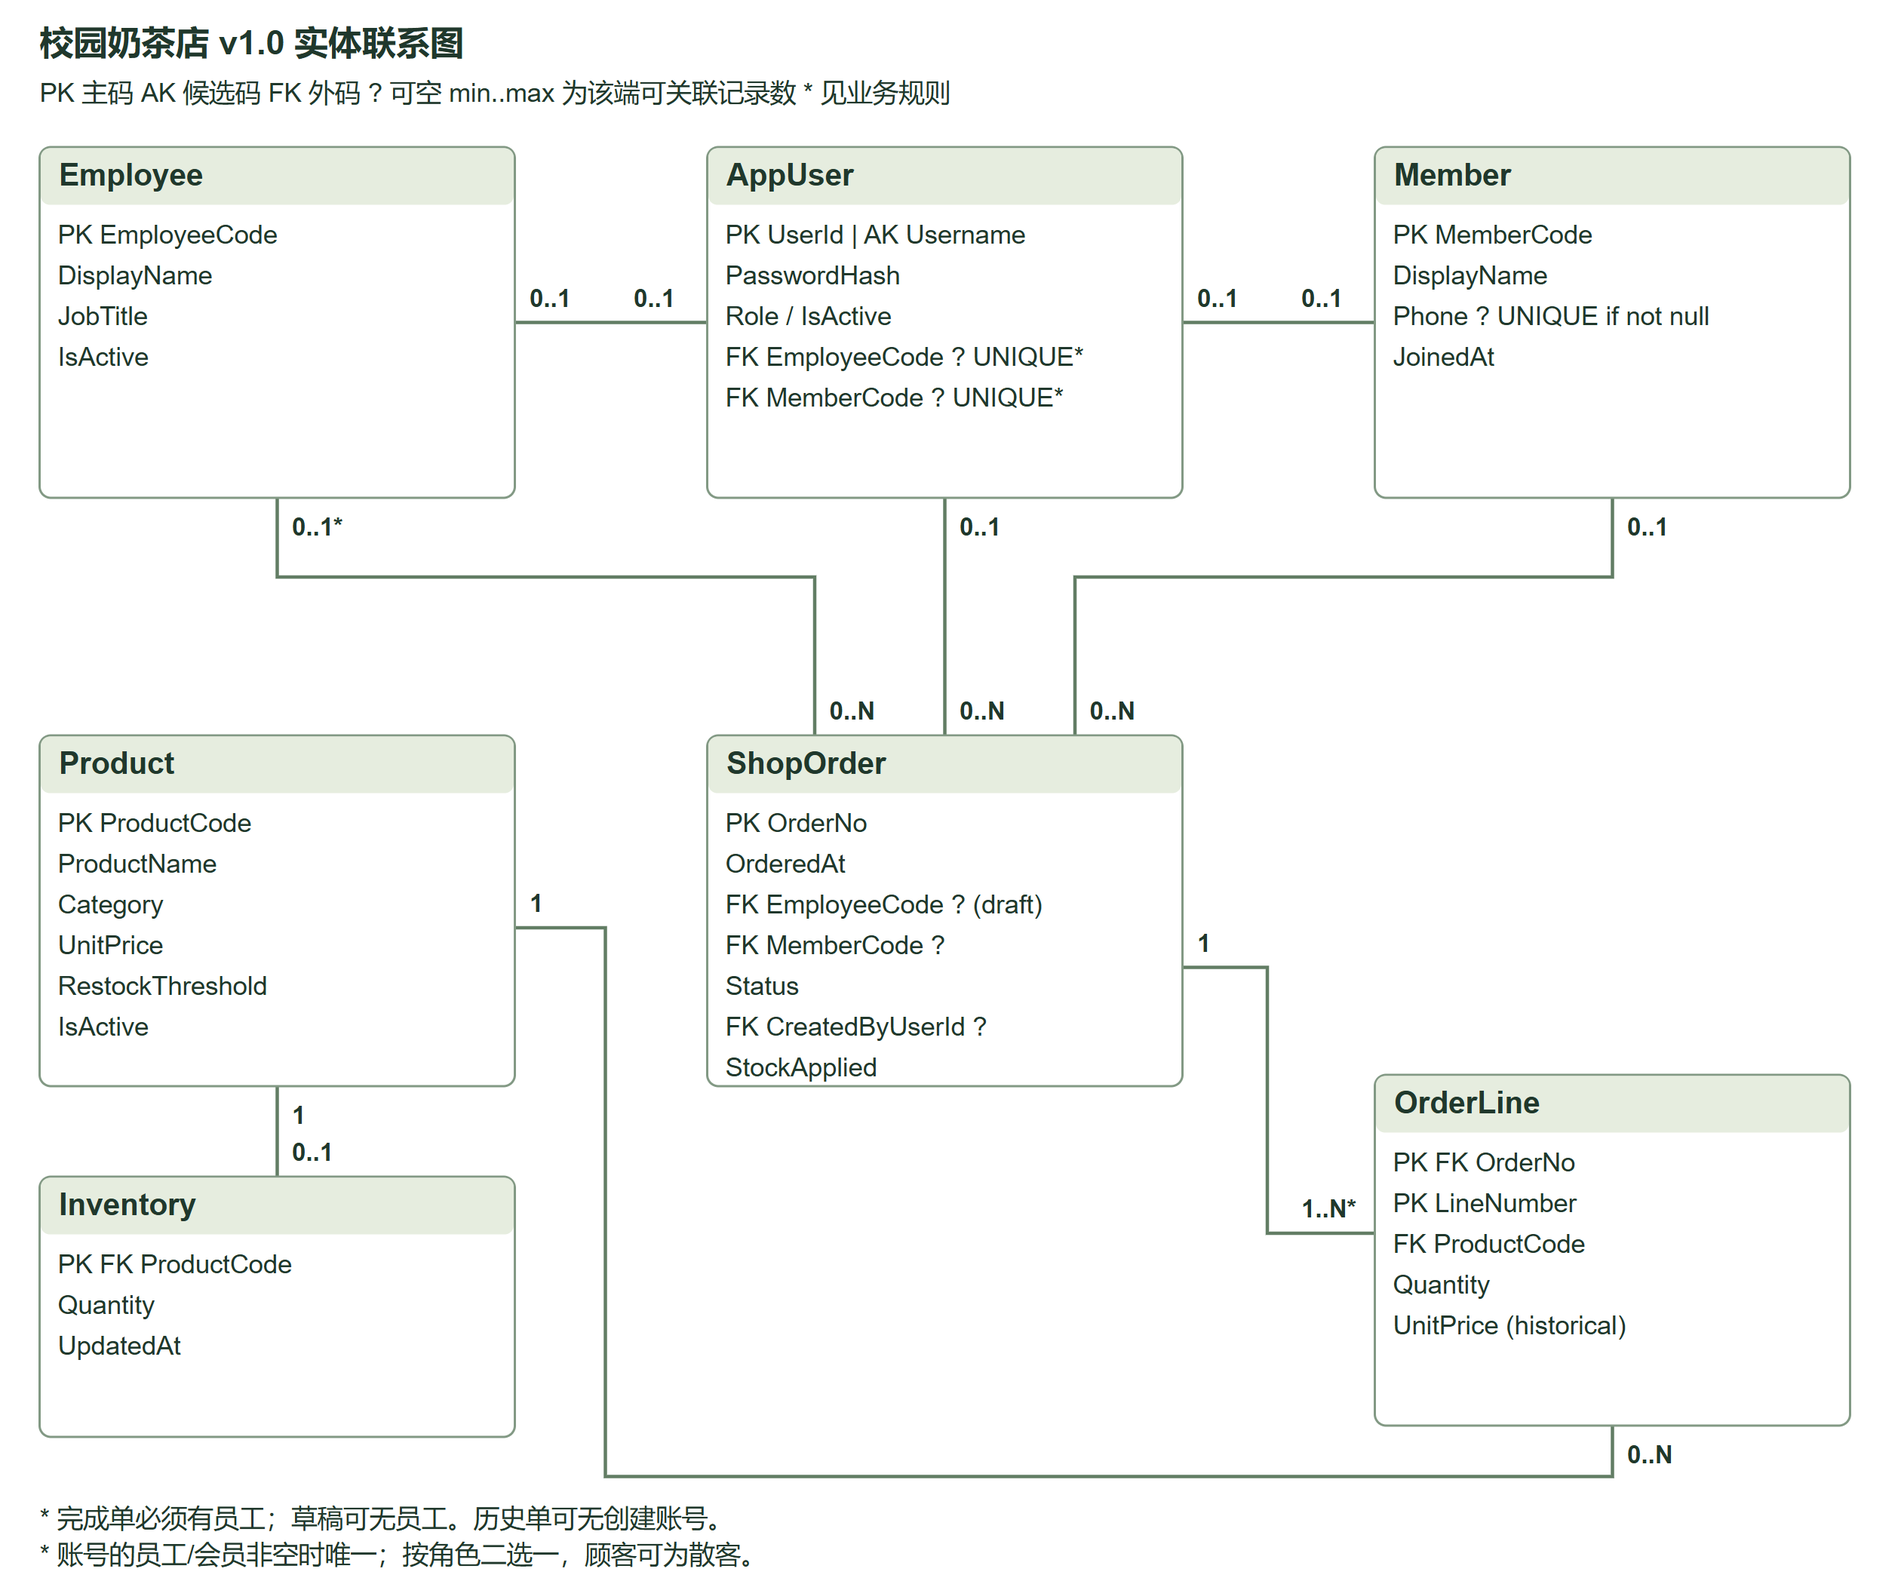
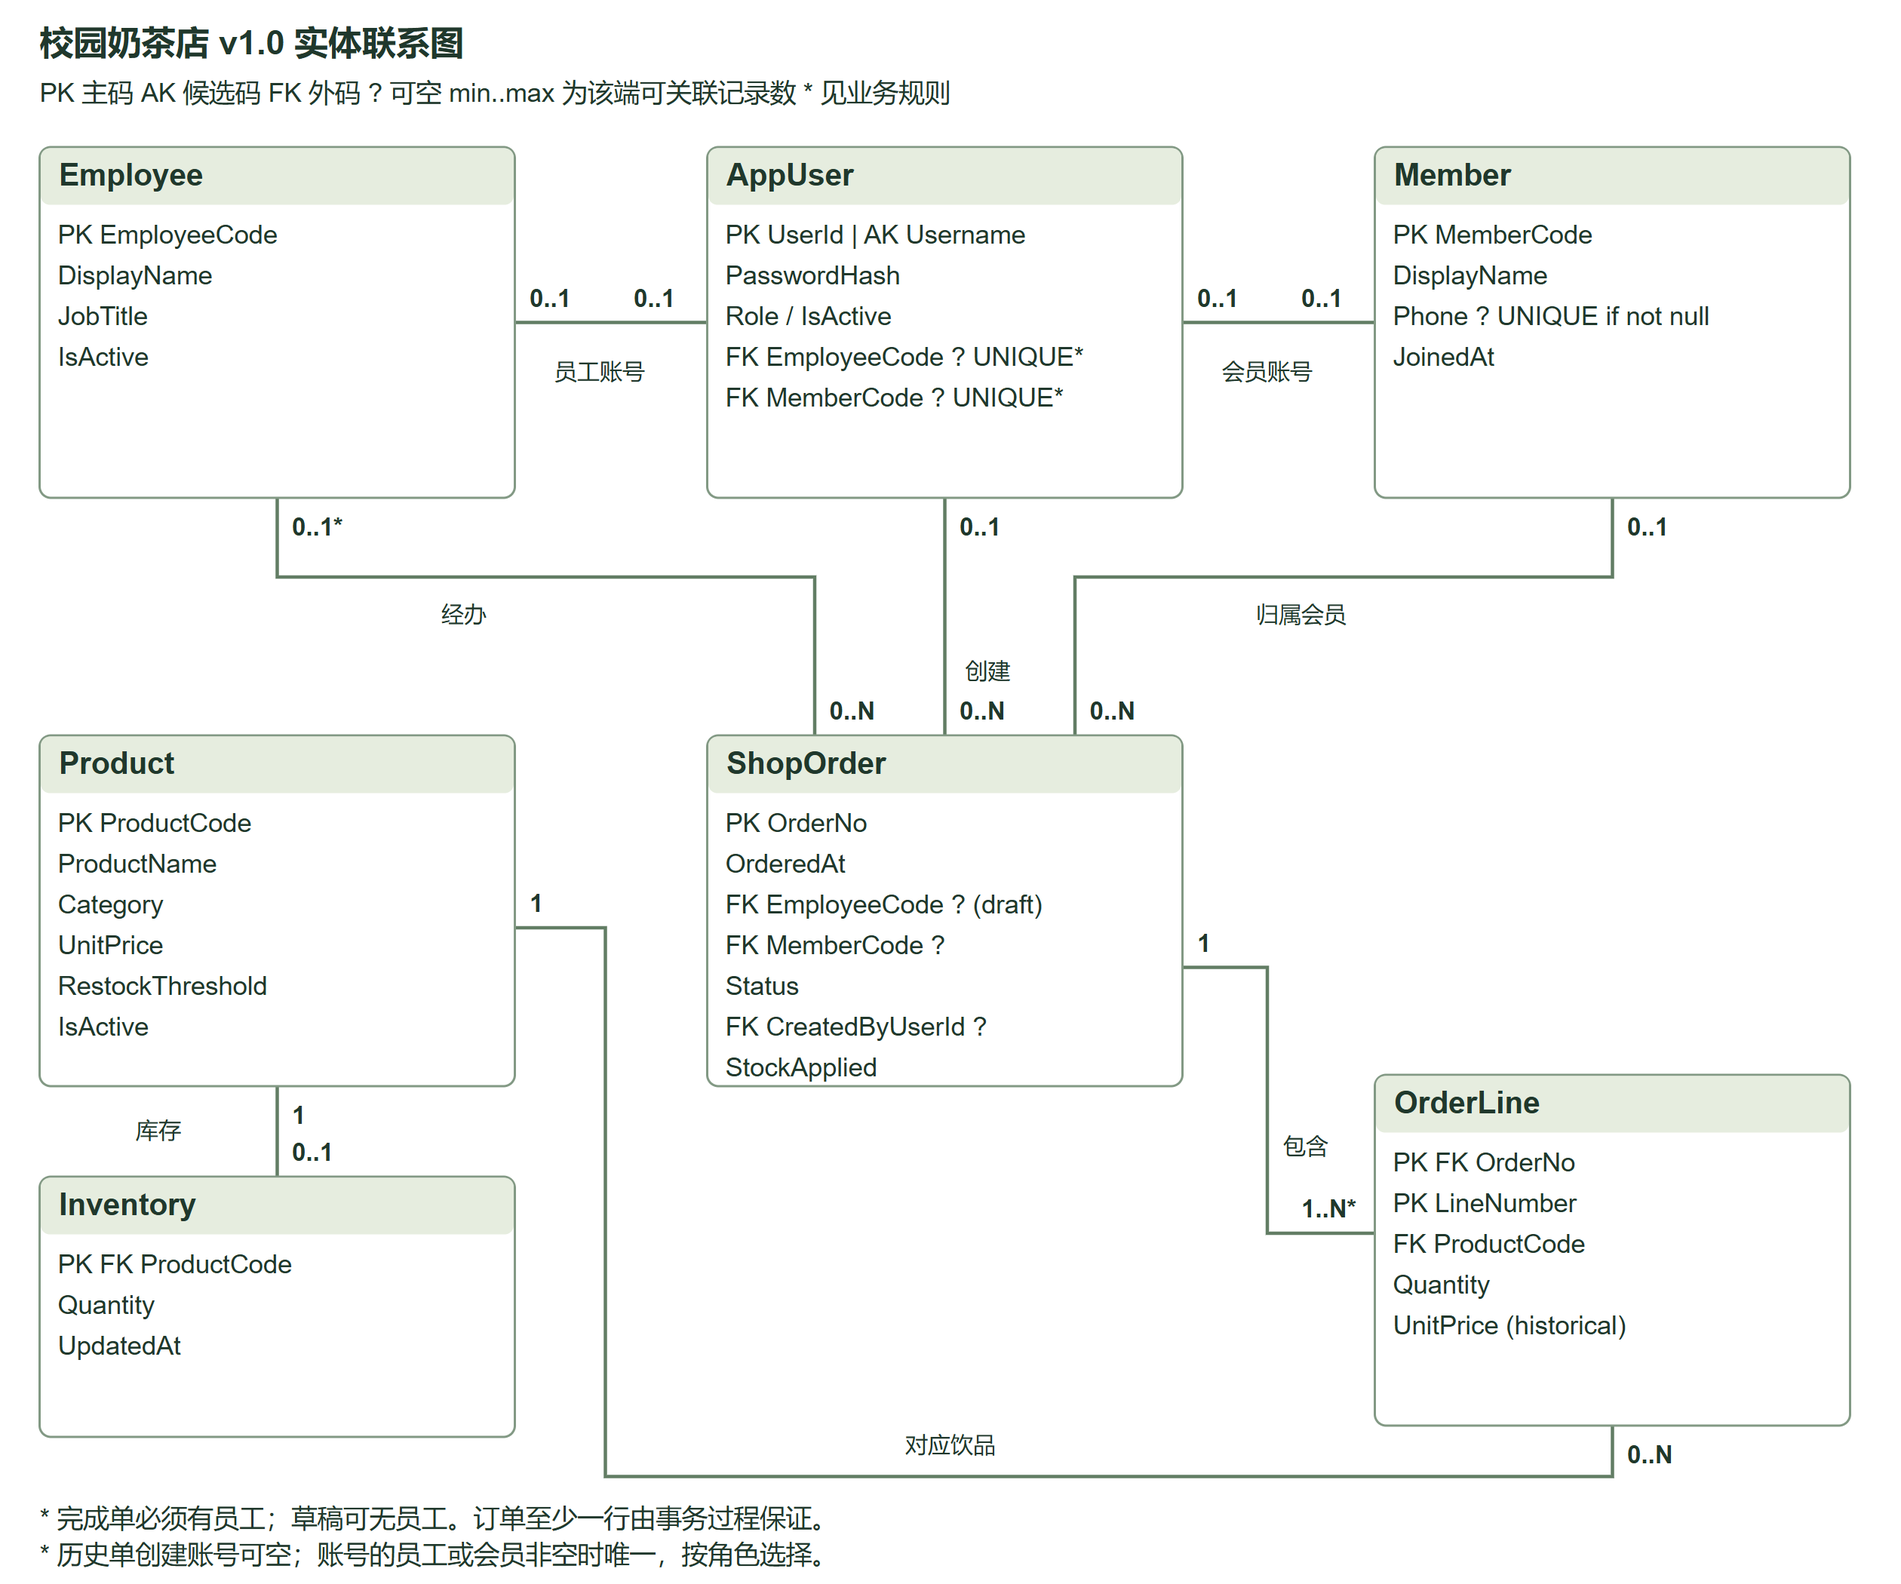
Fix five independently reproduced course audit regressions and clarify ER relationships

diff --git a/stage2/web/static/app.js b/stage2/web/static/app.js
@@ -9,7 +9,7 @@ function button(text,fn,cls='quiet'){const b=el('button',text,cls);b.type='butto
 function table(headers,rows){const t=el('table'),head=el('tr');headers.forEach(x=>head.append(el('th',x)));const th=el('thead');th.append(head);t.append(th);const body=el('tbody');rows.forEach(row=>{const tr=el('tr');row.forEach(x=>{const td=el('td');td.append(x instanceof Node?x:document.createTextNode(String(x??'—')));tr.append(td);});body.append(tr);});if(!rows.length){const tr=el('tr'),td=el('td','暂无记录');td.colSpan=headers.length;tr.append(td);body.append(tr);}t.append(body);return t;}
 const money=v=>Number(v).toFixed(2);
 const status=s=>({DRAFT:'待确认',COMPLETED:'已完成',CANCELLED:'已取消'}[s]||s);
-async function refreshProducts(q=''){products=await api('/products?q='+encodeURIComponent(q));const grid=$('#product-grid');grid.replaceChildren();products.forEach(p=>{const c=el('article',undefined,'product-card');c.append(el('div',p.Category+' · '+p.ProductCode,'category'),el('h3',p.ProductName));if(!p.IsActive)c.append(el('span','已下架','badge low'));c.append(el('div','¥ '+money(p.UnitPrice),'price'));const actions=el('div',undefined,'actions');if(p.IsActive)actions.append(button('选这杯',async()=>{await switchTab('orders');addLine(p.ProductCode);$('#order-form').scrollIntoView({behavior:'smooth'});}));if(user.Role==='admin'){actions.append(button('编辑',()=>editProduct(p)),button('删除',async()=>{if(confirm('删除商品 '+p.ProductName+'？已被订单引用的商品将保留。')){await api('/products/'+p.ProductCode,'DELETE');await refreshProducts();notice('商品已删除');}},'danger'));}c.append(actions);grid.append(c);});}
+async function refreshProducts(q=''){const visible=await api('/products?q='+encodeURIComponent(q));if(!q)products=visible;const grid=$('#product-grid');grid.replaceChildren();visible.forEach(p=>{const c=el('article',undefined,'product-card');c.append(el('div',p.Category+' · '+p.ProductCode,'category'),el('h3',p.ProductName));if(!p.IsActive)c.append(el('span','已下架','badge low'));c.append(el('div','¥ '+money(p.UnitPrice),'price'));const actions=el('div',undefined,'actions');if(p.IsActive)actions.append(button('选这杯',async()=>{await switchTab('orders');addLine(p.ProductCode);$('#order-form').scrollIntoView({behavior:'smooth'});}));if(user.Role==='admin'){actions.append(button('编辑',()=>editProduct(p)),button('删除',async()=>{if(confirm('删除商品 '+p.ProductName+'？已被订单引用的商品将保留。')){await api('/products/'+p.ProductCode,'DELETE');await refreshProducts();notice('商品已删除');}},'danger'));}c.append(actions);grid.append(c);});}
 function resetProduct(){editingProduct=null;$('#product-form').reset();$('#product-form [name=product_code]').disabled=false;$('#product-form-title').textContent='新增商品';}
 function editProduct(p){editingProduct=p.ProductCode;const f=$('#product-form');for(const [key,value] of Object.entries({product_code:p.ProductCode,name:p.ProductName,category:p.Category,price:p.UnitPrice,threshold:p.RestockThreshold,active:String(p.IsActive)}))f.elements[key].value=value;f.elements.product_code.disabled=true;$('#product-form-title').textContent='修改商品 '+p.ProductCode;f.scrollIntoView({behavior:'smooth'});}
 function addLine(code='',quantity=1){const row=el('div',undefined,'line-row');const label=el('label','饮品'),select=el('select');select.name='product_code';select.required=true;products.filter(p=>p.IsActive||p.ProductCode===code).forEach(p=>{const op=el('option',p.ProductName+' · ¥'+money(p.UnitPrice));op.value=p.ProductCode;select.append(op);});if(code)select.value=code;label.append(select);const qlabel=el('label','杯数'),input=el('input');Object.assign(input,{name:'quantity',type:'number',min:'1',max:'100',step:'1',required:true,value:String(quantity)});qlabel.append(input);row.append(label,qlabel,button('移除',()=>row.remove()));$('#line-editor').append(row);}

diff --git a/stage2/tests/test_course_audit.py b/stage2/tests/test_course_audit.py
@@ -1,0 +1,86 @@
+"""Independent course audit: cross-feature and numeric/stock boundary regressions."""
+import json
+from decimal import Decimal
+from threading import Thread
+
+import pyodbc
+from playwright.sync_api import expect, sync_playwright
+from werkzeug.serving import make_server
+
+from stage2.web.app import ROOT
+
+
+def create_draft(client,headers,items):
+    response=client.post('/api/orders',json={'items':items},headers=headers)
+    assert response.status_code==200,response.json
+    return response.json['data']['order_no']
+
+
+def test_large_valid_order_total_remains_readable(client,login,db):
+    headers=login(client,'clerk')
+    db.execute("UPDATE dbo.Product SET UnitPrice=99999999.99 WHERE ProductCode='D001'")
+    number=create_draft(client,headers,[{'product_code':'D001','quantity':100}]*2)
+    response=client.get('/api/orders/'+number)
+    assert response.status_code==200,response.json
+    assert Decimal(response.json['data']['order']['Total'])==Decimal('19999999998.00')
+    assert client.get('/api/orders').status_code==200
+
+
+def test_cancel_restores_stock_after_zero_inventory_record_deleted(client,login,db):
+    db.execute("INSERT dbo.Product VALUES('AUDIT',N'复核用茶',N'测试',1,1,1); INSERT dbo.Inventory(ProductCode,Quantity) VALUES('AUDIT',2);")
+    headers=login(client,'clerk')
+    number=create_draft(client,headers,[{'product_code':'AUDIT','quantity':2}])
+    assert client.post('/api/orders/'+number+'/submit',json={},headers=headers).status_code==200
+    admin_headers=login(client,'admin')
+    assert client.delete('/api/inventory/AUDIT',headers=admin_headers).status_code==200
+    headers=login(client,'clerk')
+    response=client.post('/api/orders/'+number+'/cancel',json={},headers=headers)
+    assert response.status_code==200,response.json
+    assert db.execute("SELECT Quantity FROM dbo.Inventory WHERE ProductCode='AUDIT'").fetchval()==2
+    assert client.post('/api/orders/'+number+'/cancel',json={},headers=headers).status_code==409
+
+
+def test_non_ascii_csrf_is_rejected_as_input_not_system_error(client):
+    client.get('/api/session')
+    response=client.post('/api/login',json={'username':'admin','password':'invalid'},headers={'X-CSRF-Token':'é'})
+    assert response.status_code==403 and response.json['code']=='CSRF_INVALID'
+
+
+def test_connection_failure_log_preserves_last_authenticated_role(app,client,login,monkeypatch):
+    login(client,'admin')
+    def unavailable(*args):
+        raise pyodbc.OperationalError('08001','audit connection unavailable')
+    monkeypatch.setattr(app.extensions['dao'],'user',unavailable)
+    response=client.get('/api/orders')
+    assert response.status_code==503
+    records=[json.loads(line) for line in (ROOT/'logs/app.jsonl').read_text(encoding='utf-8').splitlines()]
+    matches=[r for r in records if r.get('request_id')==response.json['request_id']]
+    assert matches and all(r['role']=='admin' for r in matches)
+
+
+def test_menu_search_does_not_remove_other_products_from_draft_editor(app,client,login,credentials):
+    headers=login(client,'customer')
+    number=create_draft(client,headers,[{'product_code':'D003','quantity':2}])
+    server=make_server('127.0.0.1',5002,app,threaded=True)
+    Thread(target=server.serve_forever,daemon=True).start()
+    try:
+        with sync_playwright() as p:
+            browser=p.chromium.launch(channel='msedge',headless=True)
+            page=browser.new_page(viewport={'width':1440,'height':1000})
+            page.goto('http://127.0.0.1:5002')
+            page.locator('[name=username]').fill('customer')
+            page.locator('[name=password]').fill(credentials['customer'])
+            page.locator('#login-form button').click()
+            expect(page.locator('.product-card')).to_have_count(6)
+            page.locator('#search-form input').fill('D001')
+            page.locator('#search-form button').click()
+            expect(page.locator('.product-card')).to_have_count(1)
+            page.locator('[data-tab=orders]').click()
+            page.locator('#orders-table tr').filter(has_text=number).get_by_role('button',name='编辑',exact=True).click()
+            expect(page.locator('.line-row select')).to_have_value('D003')
+            page.locator('.line-row input').fill('3')
+            page.locator('#order-form button[type=submit]').click()
+            expect(page.locator('#order-detail')).to_contain_text('12.00')
+            browser.close()
+    finally:
+        server.shutdown()

diff --git a/stage2/tools/draw_er.py b/stage2/tools/draw_er.py
@@ -41,6 +41,14 @@ def draw(version):
         '<style>text{font-family:Arial,"Microsoft YaHei",sans-serif;fill:#20382c;font-size:23px}.title{font-size:30px;font-weight:bold}.heading{font-size:27px;font-weight:bold}.card{fill:#fff;stroke:#829984;stroke-width:2}.label{font-size:22px;font-weight:bold;paint-order:stroke;stroke:white;stroke-width:8px;stroke-linejoin:round}</style>',
         '<rect width="1680" height="1400" fill="white"/>',f'<text x="35" y="48" class="title">校园奶茶店 {version.replace("v01","v0.1").replace("v10","v1.0")} 实体联系图</text>',
         '<text x="35" y="90">PK 主码   AK 候选码   FK 外码   ? 可空   min..max 为该端可关联记录数   * 见业务规则</text>']
+    names={
+      ('Employee','AppUser'):('员工账号',490,335),('Member','AppUser'):('会员账号',1080,335),
+      ('AppUser','ShopOrder'):('创建',853,600),
+      ('Employee','ShopOrder'):('经办',485,355) if version=='v01' else ('经办',390,550),
+      ('Member','ShopOrder'):('归属会员',1080,355) if version=='v01' else ('归属会员',1110,550),
+      ('ShopOrder','OrderLine'):('包含',858,675) if version=='v01' else ('包含',1134,1020),
+      ('Product','OrderLine'):('对应饮品',480,1015) if version=='v01' else ('对应饮品',800,1284),
+      ('Product','Inventory'):('库存快照',760,1260) if version=='v01' else ('库存',120,1006)}
     for a,b,mina,minb,points,label in links:
         out.append('<polyline points="'+' '.join(f'{x},{y}' for x,y in points)+'" fill="none" stroke="#627d64" stroke-width="3"/>')
         # Label cardinalities at each actual endpoint; optional participation via zero.
@@ -48,13 +56,15 @@ def draw(version):
             x,y=point;dx,dy=adjacent[0]-x,adjacent[1]-y
             tx=x+(13 if dx>=0 else -65);ty=y+(33 if dy>0 else -14)
             out.append(f'<text x="{tx}" y="{ty}" class="label">{txt}</text>')
+        name,nx,ny=names[(a,b)]
+        out.append(f'<text x="{nx}" y="{ny}" style="font-size:20px">{name}</text>')
     for name,(x,y) in nodes.items():
         ff=fields[name];height=230 if version=='v10' and name=='Inventory' else 310
         out+=[f'<g id="{name}"><rect x="{x}" y="{y}" width="420" height="{height}" rx="10" class="card"/>',f'<rect x="{x+1}" y="{y+1}" width="418" height="50" rx="8" fill="#e6eddf"/>',f'<text x="{x+17}" y="{y+34}" class="heading">{name}</text>']
         for i,f in enumerate(ff):out.append(f'<text x="{x+16}" y="{y+85+i*36}">{escape(f)}</text>')
         out.append('</g>')
-    notes=['* Order 至少一条明细由事务过程保证，外码本身仅保证引用存在。']
-    if version=='v10':notes=['* 完成单必须有员工；草稿可无员工。历史单可无创建账号。','* 账号的员工/会员非空时唯一；按角色二选一，顾客可为散客。']
+    notes=['* 订单至少一行是业务要求；v0.1外码不能保证，v1.0由事务过程实现。']
+    if version=='v10':notes=['* 完成单必须有员工；草稿可无员工。订单至少一行由事务过程保证。','* 历史单创建账号可空；账号的员工或会员非空时唯一，按角色选择。']
     for i,n in enumerate(notes):out.append(f'<text x="35" y="{1350+i*32}">{n}</text>')
     out.append('</svg>')
     path=ROOT/'docs'/('er-'+version+'.svg');path.write_text('\n'.join(out),encoding='utf-8');return path

diff --git a/stage2/web/app.py b/stage2/web/app.py
@@ -53,12 +53,17 @@ def create_app(config=None):
     @app.before_request
     def before():
         g.request_id, g.started, g.user, g.code = uuid4().hex, time.monotonic(), None, 'OK'
+        # Keep the last authenticated role for diagnostics if revalidation cannot connect.
+        # Authorization always uses g.user freshly loaded from SQL Server, never this hint.
+        g.log_role = session.get('role', 'anonymous')
         if request.path.startswith('/api/'):
             if session.get('username'):
                 g.user = dao.user(session['username'])
+                if g.user:
+                    g.log_role = g.user['Role']
             if request.method not in {'GET','HEAD','OPTIONS'}:
                 token = request.headers.get('X-CSRF-Token','')
-                if not session.get('csrf') or not secrets.compare_digest(token, session['csrf']):
+                if not session.get('csrf') or not secrets.compare_digest(token.encode('utf-8'), session['csrf'].encode('utf-8')):
                     raise AppError('CSRF_INVALID', '页面已过期 请刷新后重试', 403)
             if request.path not in {'/api/session','/api/login'}:
                 service.allow(g.user, 'admin','clerk','customer')
@@ -72,7 +77,7 @@ def create_app(config=None):
         response.headers['Content-Security-Policy'] = "default-src 'self'; style-src 'self'; script-src 'self'; frame-ancestors 'none'"
         logger.info(json.dumps({'time':datetime.now(timezone.utc).isoformat(), 'request_id':g.request_id,
             'operation':request.method+' '+request.url_rule.rule if request.url_rule else request.method+' unknown',
-            'role':g.user['Role'] if g.user else 'anonymous','code':g.code,
+            'role':g.log_role,'code':g.code,
             'result':'success' if response.status_code<400 else 'failure','http_status':response.status_code,
             'duration_ms':round((time.monotonic()-g.started)*1000)},ensure_ascii=False))
         return response
@@ -102,7 +107,7 @@ def create_app(config=None):
         # Detailed exceptions are server-only. Never log request bodies/passwords.
         logger.error(json.dumps({'time':datetime.now(timezone.utc).isoformat(),'request_id':g.request_id,
             'operation':request.method+' '+(request.url_rule.rule if request.url_rule else 'unknown'),
-            'role':g.user['Role'] if g.user else 'anonymous','code':code,'result':'failure',
+            'role':g.log_role,'code':code,'result':'failure',
             'exception_type':type(exc).__name__,'detail':str(exc)},ensure_ascii=False))
         g.code = code
         return jsonify(ok=False,code=code,message=message,data=None,request_id=g.request_id),status
@@ -121,8 +126,9 @@ def create_app(config=None):
     def login():
         user = service.login(body())
         session.clear()
-        session.update(username=user['Username'],csrf=secrets.token_urlsafe(32),permanent=True)
+        session.update(username=user['Username'],role=user['Role'],csrf=secrets.token_urlsafe(32),permanent=True)
         g.user = user
+        g.log_role = user['Role']
         return ok({'user':{'Username':user['Username'],'Role':user['Role']},'csrf':session['csrf']})
 
     @app.post('/api/logout')

diff --git a/stage2/tools/browser_acceptance.py b/stage2/tools/browser_acceptance.py
@@ -99,6 +99,9 @@ def main():
         sf.locator('[name=product_code]').fill('UI_TEST');sf.locator('[name=quantity]').fill('8')
         sf.get_by_role('button',name='保存库存').click();notice(admin,'库存已保存');shot(admin,'09_admin_inventory.png')
         sf.locator('[name=quantity]').fill('0');sf.get_by_role('button',name='保存库存').click();notice(admin,'库存已保存')
+        # The previous save has the same toast. Wait for the new row value so a
+        # fast test does not race DELETE against the still-pending PUT request.
+        expect(admin.locator('#inventory-table tbody tr').filter(has_text='UI_TEST').locator('td').nth(2)).to_have_text('0')
         admin.on('dialog',lambda d:d.accept())
         admin.locator('#inventory-table tbody tr').filter(has_text='UI_TEST').get_by_role('button',name='删除记录').click();notice(admin,'库存记录已删除')
         sf.get_by_role('button',name='保存库存').click();notice(admin,'库存已保存');passed('admin inventory update delete and recreate')
